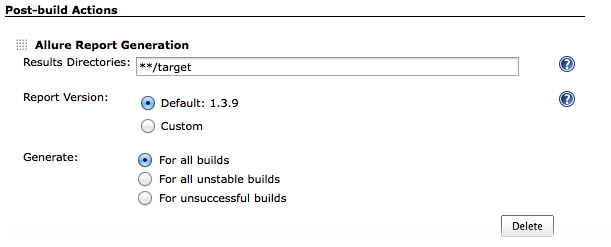
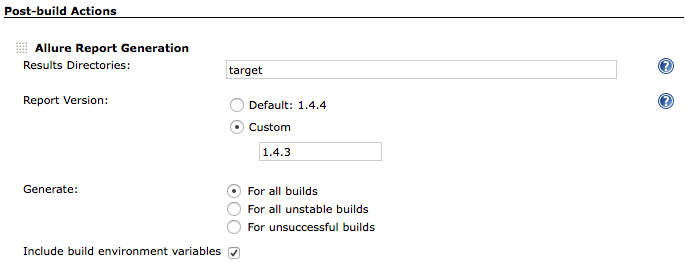
#32: add proxy settings

diff --git a/src/main/java/ru/yandex/qatools/allure/jenkins/utils/ReportGenerator.java b/src/main/java/ru/yandex/qatools/allure/jenkins/utils/ReportGenerator.java
@@ -2,10 +2,21 @@ package ru.yandex.qatools.allure.jenkins.utils;
 
 import hudson.FilePath;
 import hudson.remoting.VirtualChannel;
+import org.apache.maven.settings.building.SettingsBuildingException;
+import ru.yandex.qatools.allure.jenkins.config.ProxySettingsConfig;
 import ru.yandex.qatools.allure.report.AllureReportBuilder;
+import ru.yandex.qatools.clay.Aether;
+import ru.yandex.qatools.clay.maven.settings.FluentSettingsBuilder;
 
 import java.io.File;
 import java.io.IOException;
+
+import static ru.yandex.qatools.clay.Aether.MAVEN_CENTRAL_URL;
+import static ru.yandex.qatools.clay.Aether.aether;
+import static ru.yandex.qatools.clay.maven.settings.FluentProfileBuilder.newProfile;
+import static ru.yandex.qatools.clay.maven.settings.FluentProxyBuilder.newProxy;
+import static ru.yandex.qatools.clay.maven.settings.FluentRepositoryBuilder.newRepository;
+import static ru.yandex.qatools.clay.maven.settings.FluentSettingsBuilder.loadSettings;
 
 /**
  * eroshenkoam
@@ -13,24 +24,28 @@ import java.io.IOException;
  */
 public class ReportGenerator implements FilePath.FileCallable<FilePath> {
 
+    public static final String SONATYPE_URL = "https://oss.sonatype.org/content/repositories/releases";
+
     public static final String RESULTS_PATH = "results";
 
     public static final String REPORT_PATH = "report";
 
+    private ProxySettingsConfig proxySettings;
+
     private String reportVersion;
 
-    public ReportGenerator(String reportVersion) {
+    public ReportGenerator(String reportVersion, ProxySettingsConfig proxySettings) {
         this.reportVersion = reportVersion;
+        this.proxySettings = proxySettings;
     }
 
     @Override
     public FilePath invoke(File f, VirtualChannel channel) throws IOException, InterruptedException {
-
         File resultsDirectory = new File(f, RESULTS_PATH);
         File reportDirectory = new File(f, REPORT_PATH);
-
         try {
-            AllureReportBuilder allureReportBuilder = new AllureReportBuilder(reportVersion, reportDirectory);
+            Aether aether = createAether(proxySettings);
+            AllureReportBuilder allureReportBuilder = new AllureReportBuilder(reportVersion, reportDirectory, aether);
             allureReportBuilder.processResults(resultsDirectory);
             allureReportBuilder.unpackFace();
         } catch (Exception e) {
@@ -38,5 +53,35 @@ public class ReportGenerator implements FilePath.FileCallable<FilePath> {
         }
 
         return new FilePath(reportDirectory);
+    }
+
+    public Aether createAether(ProxySettingsConfig proxySettings) throws IOException, SettingsBuildingException {
+        FluentSettingsBuilder settingsBuilder = loadSettings()
+                .withActiveProfile(
+                        newProfile()
+                                .withId("allure")
+                                .withRepository(newRepository().withUrl(MAVEN_CENTRAL_URL))
+                                .withRepository(newRepository().withUrl(SONATYPE_URL))
+                );
+        if (proxySettings.isActive()) {
+            settingsBuilder.withProxy(
+                    newProxy()
+                            .withId("allure-http")
+                            .withProtocol("http")
+                            .withHost(proxySettings.getHost())
+                            .withPort(proxySettings.getPort())
+                            .withUsername(proxySettings.getUsername())
+                            .withPassword(proxySettings.getPassword())
+            ).withProxy(
+                    newProxy()
+                            .withId("allure-https")
+                            .withProtocol("https")
+                            .withHost(proxySettings.getHost())
+                            .withPort(proxySettings.getPort())
+                            .withUsername(proxySettings.getUsername())
+                            .withPassword(proxySettings.getPassword())
+            );
+        }
+        return aether(settingsBuilder.build());
     }
 }

diff --git a/src/main/java/ru/yandex/qatools/allure/jenkins/AllureReportPublisherDescriptor.java b/src/main/java/ru/yandex/qatools/allure/jenkins/AllureReportPublisherDescriptor.java
@@ -12,6 +12,7 @@ import hudson.util.FormValidation;
 import org.kohsuke.stapler.QueryParameter;
 import org.kohsuke.stapler.StaplerRequest;
 
+import ru.yandex.qatools.allure.jenkins.config.AllureGlobalConfig;
 import ru.yandex.qatools.allure.jenkins.config.ReportBuildPolicy;
 
 /**
@@ -21,8 +22,12 @@ import ru.yandex.qatools.allure.jenkins.config.ReportBuildPolicy;
 @Extension
 public class AllureReportPublisherDescriptor extends BuildStepDescriptor<Publisher> {
 
+    private AllureGlobalConfig config;
+
+    @Deprecated
     private String reportVersionDefault;
 
+    @Deprecated
     private String resultsPatternDefault;
 
     public AllureReportPublisherDescriptor() {
@@ -47,22 +52,28 @@ public class AllureReportPublisherDescriptor extends BuildStepDescriptor<Publish
     }
 
 
-    @SuppressWarnings("unused")
-    public String getResultsPatternDefault() {
-        return Objects.firstNonNull(resultsPatternDefault, AllureReportPlugin.DEFAULT_RESULTS_PATTERN);
+    public AllureGlobalConfig getConfig() {
+        if (config == null) {
+            return AllureGlobalConfig.newInstance(resultsPatternDefault, reportVersionDefault);
+        } else {
+            return config;
+        }
     }
 
-    public void setResultsPatternDefault(String reportGlobDefault) {
-        this.resultsPatternDefault = reportGlobDefault;
+    public void setConfig(AllureGlobalConfig config) {
+        this.config = config;
+    }
+
+    @SuppressWarnings("unused")
+    public String getResultsPatternDefault() {
+        return Objects.firstNonNull(getConfig().getResultsPatternDefault(),
+                AllureReportPlugin.DEFAULT_RESULTS_PATTERN);
     }
 
     @SuppressWarnings("unused")
     public String getReportVersionDefault() {
-        return Objects.firstNonNull(reportVersionDefault, AllureReportPlugin.DEFAULT_REPORT_VERSION);
-    }
-
-    public void setReportVersionDefault(String reportVersionDefault) {
-        this.reportVersionDefault = reportVersionDefault;
+        return Objects.firstNonNull(getConfig().getReportVersionDefault(),
+                AllureReportPlugin.DEFAULT_REPORT_VERSION);
     }
 
     @SuppressWarnings("unused")
@@ -73,14 +84,7 @@ public class AllureReportPublisherDescriptor extends BuildStepDescriptor<Publish
 
     @Override
     public boolean configure(StaplerRequest req, net.sf.json.JSONObject json) throws FormException {
-        String resultsGlobDefaultValue = json.getString("resultsPatternDefault");
-        if (!Strings.isNullOrEmpty(resultsGlobDefaultValue)) {
-            setResultsPatternDefault(resultsGlobDefaultValue);
-        }
-        String reportVersionDefaultValue = json.getString("reportVersionDefault");
-        if (!Strings.isNullOrEmpty(reportVersionDefaultValue)) {
-            setReportVersionDefault(reportVersionDefaultValue);
-        }
+        setConfig((AllureGlobalConfig) json.toBean(AllureGlobalConfig.class));
         save();
         return true;
     }

diff --git a/src/main/java/ru/yandex/qatools/allure/jenkins/AllureReportPublisher.java b/src/main/java/ru/yandex/qatools/allure/jenkins/AllureReportPublisher.java
@@ -15,6 +15,7 @@ import hudson.tasks.BuildStepMonitor;
 import hudson.tasks.Recorder;
 import org.kohsuke.stapler.DataBoundConstructor;
 import ru.yandex.qatools.allure.jenkins.config.AllureReportConfig;
+import ru.yandex.qatools.allure.jenkins.config.ProxySettingsConfig;
 import ru.yandex.qatools.allure.jenkins.config.ReportBuildPolicy;
 import ru.yandex.qatools.allure.jenkins.config.ReportVersionPolicy;
 import ru.yandex.qatools.allure.jenkins.utils.PrintStreamWrapper;
@@ -136,7 +137,7 @@ public class AllureReportPublisher extends Recorder implements Serializable, Mat
         if (includeProperties) {
             resultsFilePath.createTempFile("allure", "-environment.properties").
                     act(new PropertiesSaver(build.getBuildVariables(), "Build Properties"));
-         }
+        }
 
         generateReport(build, allureFilePath, logger);
         publishReport(build, logger);
@@ -176,7 +177,7 @@ public class AllureReportPublisher extends Recorder implements Serializable, Mat
                 String resultsPattern = getConfig().getResultsPattern();
                 List<FilePath> resultsDirectories = run.getWorkspace().act(findDirectoriesByGlob(resultsPattern));
                 for (FilePath resultsDirectory : resultsDirectories) {
-                        copyRecursiveTo(resultsDirectory, tmpResultsDirectory, build, logger);
+                    copyRecursiveTo(resultsDirectory, tmpResultsDirectory, build, logger);
                 }
 
                 logger.println("completed");
@@ -229,7 +230,15 @@ public class AllureReportPublisher extends Recorder implements Serializable, Mat
         FilePath reportFilePath = new FilePath(getReportBuildDirectory(build));
         String reportVersion = getConfig().getReportVersionPolicy().equals(ReportVersionPolicy.CUSTOM) ?
                 getConfig().getReportVersionCustom() : getDescriptor().getReportVersionDefault();
-        allureFilePath.act(new ReportGenerator(reportVersion)).copyRecursiveTo(reportFilePath);
+        ProxySettingsConfig proxySettings = getDescriptor().getConfig().getProxySettings();
+        logger.println("proxy settings [active:'%s', host:'%s', port:'%s', username:'%s', password: '%s']",
+                proxySettings.isActive(),
+                proxySettings.getHost(),
+                proxySettings.getPort(),
+                proxySettings.getUsername(),
+                proxySettings.getPassword().replaceAll(".", "*")
+        );
+        allureFilePath.act(new ReportGenerator(reportVersion, proxySettings)).copyRecursiveTo(reportFilePath);
     }
 
     private void publishReport(AbstractBuild<?, ?> build, PrintStreamWrapper logger) {

diff --git a/src/main/java/ru/yandex/qatools/allure/jenkins/config/AllureGlobalConfig.java b/src/main/java/ru/yandex/qatools/allure/jenkins/config/AllureGlobalConfig.java
@@ -1,0 +1,46 @@
+package ru.yandex.qatools.allure.jenkins.config;
+
+/**
+ * eroshenkoam
+ * 19/11/14
+ */
+public class AllureGlobalConfig {
+
+    private String resultsPatternDefault;
+
+    private String reportVersionDefault;
+
+    private ProxySettingsConfig proxySettings;
+
+    public String getResultsPatternDefault() {
+        return resultsPatternDefault;
+    }
+
+    public void setResultsPatternDefault(String resultsPatternDefault) {
+        this.resultsPatternDefault = resultsPatternDefault;
+    }
+
+    public String getReportVersionDefault() {
+        return reportVersionDefault;
+    }
+
+    public void setReportVersionDefault(String reportVersionDefault) {
+        this.reportVersionDefault = reportVersionDefault;
+    }
+
+    public ProxySettingsConfig getProxySettings() {
+        return proxySettings;
+    }
+
+    public void setProxySettings(ProxySettingsConfig proxySettings) {
+        this.proxySettings = proxySettings;
+    }
+
+    public static AllureGlobalConfig newInstance(String resultsPatternDefault, String reportVersionDefault) {
+        AllureGlobalConfig allureGlobalConfig = new AllureGlobalConfig();
+        allureGlobalConfig.setResultsPatternDefault(resultsPatternDefault);
+        allureGlobalConfig.setReportVersionDefault(reportVersionDefault);
+        allureGlobalConfig.setProxySettings(new ProxySettingsConfig());
+        return allureGlobalConfig;
+    }
+}

diff --git a/src/main/java/ru/yandex/qatools/allure/jenkins/config/ProxySettingsConfig.java b/src/main/java/ru/yandex/qatools/allure/jenkins/config/ProxySettingsConfig.java
@@ -1,0 +1,59 @@
+package ru.yandex.qatools.allure.jenkins.config;
+
+/**
+ * eroshenkoam
+ * 19/11/14
+ */
+public class ProxySettingsConfig {
+
+    private boolean active;
+
+    private String host;
+
+    private int port;
+
+    private String username;
+
+    private String password;
+
+    public boolean isActive() {
+        return active;
+    }
+
+    public void setActive(boolean active) {
+        this.active = active;
+    }
+
+    public String getHost() {
+        return host;
+    }
+
+    public void setHost(String host) {
+        this.host = host;
+    }
+
+    public int getPort() {
+        return port;
+    }
+
+    public void setPort(int port) {
+        this.port = port;
+    }
+
+    public String getUsername() {
+        return username;
+    }
+
+    public void setUsername(String username) {
+        this.username = username;
+    }
+
+    public String getPassword() {
+        return password;
+    }
+
+    public void setPassword(String password) {
+        this.password = password;
+    }
+
+}
